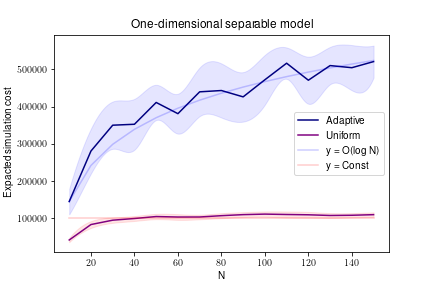
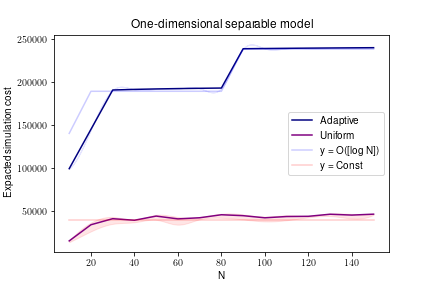
update test scripts

diff --git a/solvers/dim_reduction_solver.py b/solvers/dim_reduction_solver.py
@@ -74,6 +74,11 @@ def DimensionReductionSolver(F,params):
         # Use random walk method
         for K,z_new,A_new,b_new,y_new,s in RandomWalkApproximator(F,C,y_set,A,
                                                                   b,params):
+            # Check early stopping
+            if K is None:
+                early_stop = True
+                break
+            
             # Number of samples
             total_samples += so_samples*d
             # Update set S
@@ -85,7 +90,7 @@ def DimensionReductionSolver(F,params):
             basis = LLL(L_cur,K)
             # Choose the shortest vector
             norm = np.diag( (basis @ K) @ basis.T )
-            print(np.min(norm))
+            # print(np.min(norm))
 
             # Stopping criterion
             if np.min(norm) < 1e0 / d**2:
@@ -99,6 +104,10 @@ def DimensionReductionSolver(F,params):
                 # Update centroid
                 z_k = z_new
                 break
+        
+        # Check if intersection is empty
+        if early_stop:
+            break
         
         # Dimension reduction
         L[d-d_cur:,:] = L_cur
@@ -130,8 +139,12 @@ def DimensionReductionSolver(F,params):
             model.optimize()
             
             z = np.zeros((d,))
-            for i in range(d):
-                z[i] = x[i].X
+            try:
+                for i in range(d):
+                    z[i] = x[i].X
+            except AttributeError:
+                early_stop = True
+                break
         
         # Construct the hyperplane v^T y = v_y
         v_y = np.sum( (v-z)*z_k ) + round( np.sum( z * z_k ) )
@@ -308,7 +321,8 @@ def RandomWalkApproximator(F,Y,y_in,A_in,b_in,params,centroid=False):
     # print(y_bar,Y)
     
     # Generate the uniform distribution in P
-    y_set = RandomWalk(y_set,Y,A,b,params)    
+    M = math.ceil(5 * 20 * d * math.log(d+1) * max( 20, math.log(d) ))
+    y_set = RandomWalk(y_set,Y,A,b,params,M)
     # Approximate centroid
     y_bar = np.mean(y_set,axis=1,keepdims=True)
     
@@ -345,6 +359,11 @@ def RandomWalkApproximator(F,Y,y_in,A_in,b_in,params,centroid=False):
         # print(A.shape,y_set.shape,b.shape)
         violation = np.min(A @ y_set - b, axis=0)
         y_set = y_set[:,violation >= 0]
+        
+        # Infeasible
+        if y_set.shape[1] == 0:
+            yield None, None, None, None, None, None
+        
         # Estimate the covarance matrix
         y_bar = np.mean(y_set,axis=1,keepdims=True)
         temp = y_set - y_bar
@@ -359,7 +378,8 @@ def RandomWalkApproximator(F,Y,y_in,A_in,b_in,params,centroid=False):
         Y -= u * np.eye(d)
         
         # Update uniform distribution in P
-        y_set = RandomWalk(y_set,Y,A,b,params)
+        M = math.ceil(5 * 20 * d * math.log(d+1) * max( 20, math.log(d) ))
+        y_set = RandomWalk(y_set,Y,A,b,params,M)
 
         # Approximate centroid and covariance
         M = int(y_set.shape[1] / 2)

diff --git a/plot_result.py b/plot_result.py
@@ -21,9 +21,10 @@ min_val = np.zeros((15,))
 
 for N in range(10,160,10):
     i = 0
-    results = np.zeros((402,4))
+    results = np.zeros((102,4))
         
-    with open("./results/sqrt_sep/sep_"+str(N)+".txt") as f_in:
+    with open("./results/queue/queue_"+str(N)+".txt") as f_in:
+    # with open("./results/sqrt_sep/sep_"+str(N)+".txt") as f_in:
         for line in f_in:
             line = line.split(" ")
             if len(line) == 4:
@@ -64,7 +65,7 @@ xfit = np.linspace(10, 150, 1400)
 yfit = cs(xfit)
 cs1 = CubicSpline(N_set, stat[:,1])
 yfit1 = cs1(xfit)
-plt.fill_between(xfit, yfit-yfit1, yfit+yfit1,color='b', alpha=0.1)
+plt.fill_between(xfit, yfit-3*yfit1, yfit+yfit1,color='b', alpha=0.1)
 
 # Plot the variance
 cs = CubicSpline(N_set, stat[:,2])
@@ -72,21 +73,21 @@ xfit = np.linspace(10, 150, 1400)
 yfit = cs(xfit)
 cs1 = CubicSpline(N_set, stat[:,3])
 yfit1 = cs1(xfit)
-plt.fill_between(xfit, yfit-yfit1, yfit+yfit1,color='r', alpha=0.1)
+plt.fill_between(xfit, yfit-3*yfit1, yfit+yfit1,color='r', alpha=0.1)
 
 # Plot the trend
 curve3, = plt.plot( N_set, 
-                   (np.log(N_set)) * 1.4e5 + stat[0,0] - 1.4e5*math.log(10),
+                   np.ceil(np.log(0.5*N_set+11))*4.9e4+stat[0,0]-4.6e4*math.log(10),
                    alpha=0.2, color="b" )
-curve4, = plt.plot( N_set, 1e5 * np.ones(N_set.shape), alpha=0.2, color="r" )
+curve4, = plt.plot( N_set, 4e4 * np.ones(N_set.shape), alpha=0.2, color="r" )
 
 plt.legend([curve1,curve2,curve3,curve4],
-           ["Adaptive","Uniform","y = O(log N)","y = Const"],
+           ["Adaptive","Uniform","y = O([log N])","y = Const"],
            loc='center right')
 plt.xlabel("N")
 plt.ylabel("Expacted simulation cost")
-plt.title("One-dimensional separable model")
-plt.savefig("./results/sqrt_sep/sep.png")
+plt.title("Queueing model")
+plt.savefig("./results/queue/queue.png")
 
 
 # plt.figure()

diff --git a/run_sep_multi.py b/run_sep_multi.py
@@ -21,14 +21,15 @@ params = {}
 
 # Generate the model
 # Dimension and scale
-params["d"] = 6
+params["d"] = 50
 # params["N"] = int(sys.argv[1])
-params["N"] = 150
+params["N"] = 10
 # sub-Gaussian parameter
 params["sigma"] = 1e0
 
 # Optimality criteria
-params["eps"] = (math.factorial(params["d"]))**(1/params["d"]) / 5
+params["eps"] = (math.factorial(params["d"]))**(1/params["d"]) / 5\
+                    if params["d"] < 60 else params["d"] / math.exp(1) / 5
 params["delta"] = 1e-6
 
 # Record average simulation runs and optimality gaps
@@ -84,10 +85,10 @@ for t in range(10):
     f_opt = model["f"](model["x_opt"])
     
     # # Use truncated subgradient descent method
-    output_grad = solvers.gradient_solver.GradientSolver(model["F"],params)
+    # output_grad = solvers.gradient_solver.GradientSolver(model["F"],params)
     # print(output_grad)
     # Use Vaidya's cutting-plane method
-    # output_vai = solvers.vaidya_solver.VaidyaSolver(model["F"],params)
+    output_vai = solvers.vaidya_solver.VaidyaSolver(model["F"],params)
     # print(output_vai)
     # Use cutting-plane method based on random walk
     # output_random = solvers.random_walk_solver.RandomWalkSolver(model["F"],params)
@@ -95,10 +96,11 @@ for t in range(10):
     # # Use dimension reduction method
     # output_reduction = solvers.dim_reduction_solver.DimensionReductionSolver(model["F"],params)
     # print(output_reduction)
-    output_vai = output_grad
-    # output_grad = output_vai
+    # output_vai = output_grad
+    output_grad = output_vai
     output_random = output_vai
-    output_reduction = output_grad
+    output_reduction = output_random
+    # output_vai = output_reduction
     
     # Update records
     total_samples[0] = ( total_samples[0] * t + output_grad["total"] ) / (t+1)

diff --git a/solvers/gradient_solver.py b/solvers/gradient_solver.py
@@ -36,7 +36,7 @@ def GradientSolver(F,params):
     f_new = 0
     # Check stopping criterion every 1000 iterations
     interval = RequiredSamples(delta/4,eps/16/np.sqrt(d),params)
-    print(interval)
+    # print(interval)
     
     # Iterate numbers and step size
     T = math.ceil( max( 64*d*(N**2)*sigma / (eps**2) * math.log(2/delta),
@@ -45,7 +45,7 @@ def GradientSolver(F,params):
                        ) )
     M = max(sigma*math.sqrt(math.log( max(4*sigma*d*N*T / eps, 1) )), L) 
     eta =  N / M / np.sqrt( T )
-    print(T,eta,M)
+    # print(T,eta,M)
     
     # Start timing
     start_time = time.time()
@@ -92,11 +92,11 @@ def GradientSolver(F,params):
             f, _ = Lovasz(F,x_avg,params)
             # print(f_new, hat_F, f)
             # print(sub_grad)
-            print(x)
+            # print(x)
         
         # Early stopping
         if t % interval == interval - 1 and t >= 0 * interval:
-            print(cnt,f_new,f_old,total_samples)
+            # print(cnt,f_new,f_old,total_samples)
             # Decay is not sufficient
             if f_new - f_old >= -eps / np.sqrt(N):
                 cnt += 1
@@ -104,7 +104,7 @@ def GradientSolver(F,params):
                 cnt = 0
             if f_new < f_old:
                 f_old = f_new
-            if cnt > 5:
+            if cnt > 2:
                 break
 
         # if t % interval == interval - 1 and f_new < f_old:

diff --git a/run.py b/run.py
@@ -18,8 +18,8 @@ import solvers
 params = {}
 
 # Dimension and scale
-params["d"] = 7
-params["N"] = 100
+params["d"] = 1
+params["N"] = 150
 
 # Optimality criteria
 params["eps"] = math.log(params["d"]+1,2) / 5
@@ -49,17 +49,21 @@ if "f" in model:
         y[i] = model["f"]([z])
     
     plt.plot(x,y)
+    plt.xlabel("N")
+    plt.ylabel("Objestive value")
 else:
     # Plot the function
     x = np.linspace(1,params["N"],params["N"])
     y = np.zeros((params["N"],))
     
     for i,z in enumerate(x):
-        for _ in range(20):
+        for _ in range(100):
             y[i] += model["F"]([z])
-    y /= 20
+    y /= 100
     
     plt.plot(x,y)
+    plt.xlabel("N")
+    plt.ylabel("Average waiting time")
 
 # # Use adaptive sampling algorithm
 # output_ada = solvers.adaptive_solver.AdaptiveSolver(model["F"],params)

diff --git a/solvers/vaidya_solver.py b/solvers/vaidya_solver.py
@@ -59,7 +59,7 @@ def VaidyaSolver(F,params):
         if np.min(alpha) >= q:
             # Separation oracle
             # ti = time.time()
-            so = SO(F,z,eps/8*min(N,2**t*(N*0.5)),delta/4,params)
+            so = SO(F,z,eps/8*min(N,2**t*(N*0.25)),delta/4,params)
             c = -so["hat_grad"]
             hat_F = so["hat_F"]
             # beta = np.sum(c*z) - math.sqrt( 2*(c.T @ H_inv) @ c\
@@ -68,7 +68,7 @@ def VaidyaSolver(F,params):
             # print(time.time() - ti)
             # Update total samples
             total_samples += so["total"]
-            print(total_samples)
+            # print(total_samples)
             
             # Update A and b
             c = np.reshape(c,(1,d))

diff --git a/solvers/random_walk_solver.py b/solvers/random_walk_solver.py
@@ -97,7 +97,7 @@ def RandomWalkSolver(F,params):
         
         # Early stopping
         F_new = np.mean(S[-3:,-1])
-        if F_new >= F_old - eps / 4 / d:
+        if F_new >= F_old - eps / 2 / np.sqrt(N):
             break
         else:
             F_old = F_new
@@ -127,7 +127,8 @@ def RandomWalk(y_set,Y,A,b,params,M=None):
         M = math.ceil(50 * 20 * d * math.log(d+1) * max( 20, math.log(d) ))
     # M = 800
     # Number of steps to approximate the uniform measure in P
-    K = math.ceil(d**3 * 2e4)
+    K = math.ceil(d**3 * 2e3)
+    # print(K)
     # K = 4000
     
     # Square root of covariance matrix
